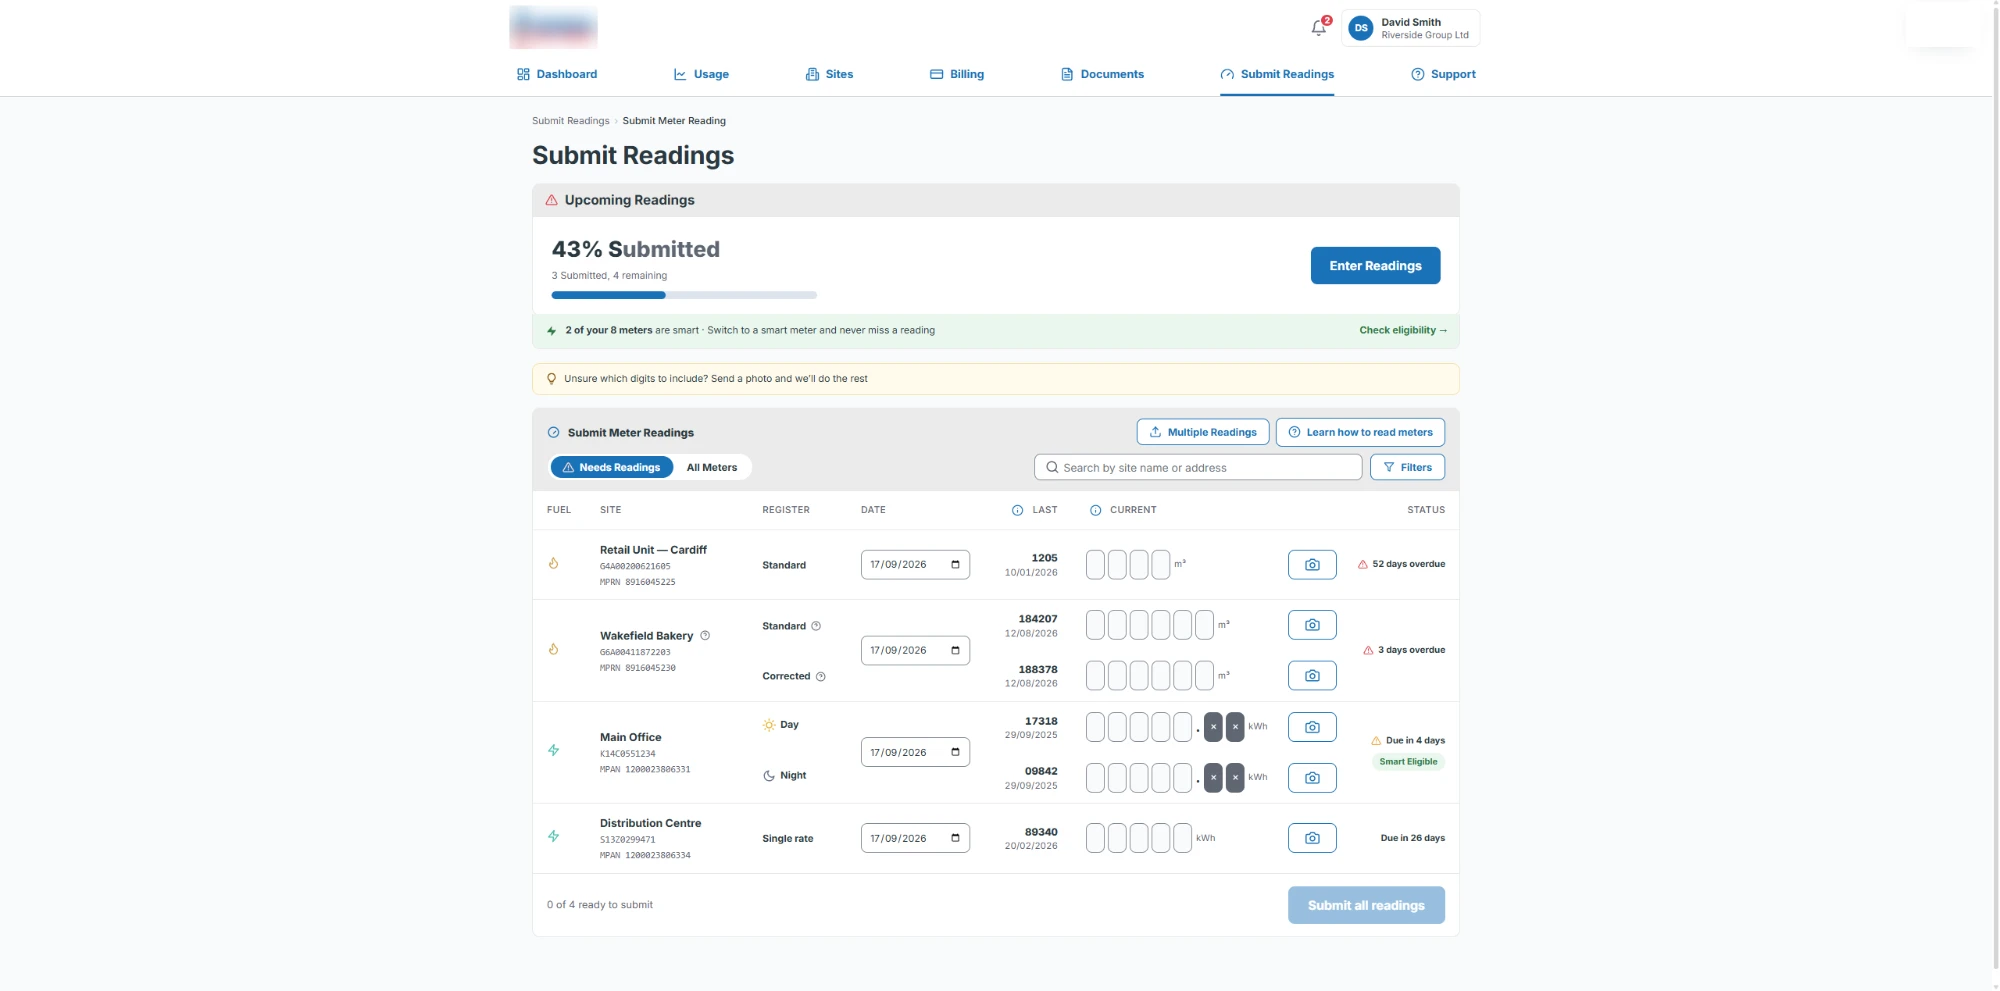
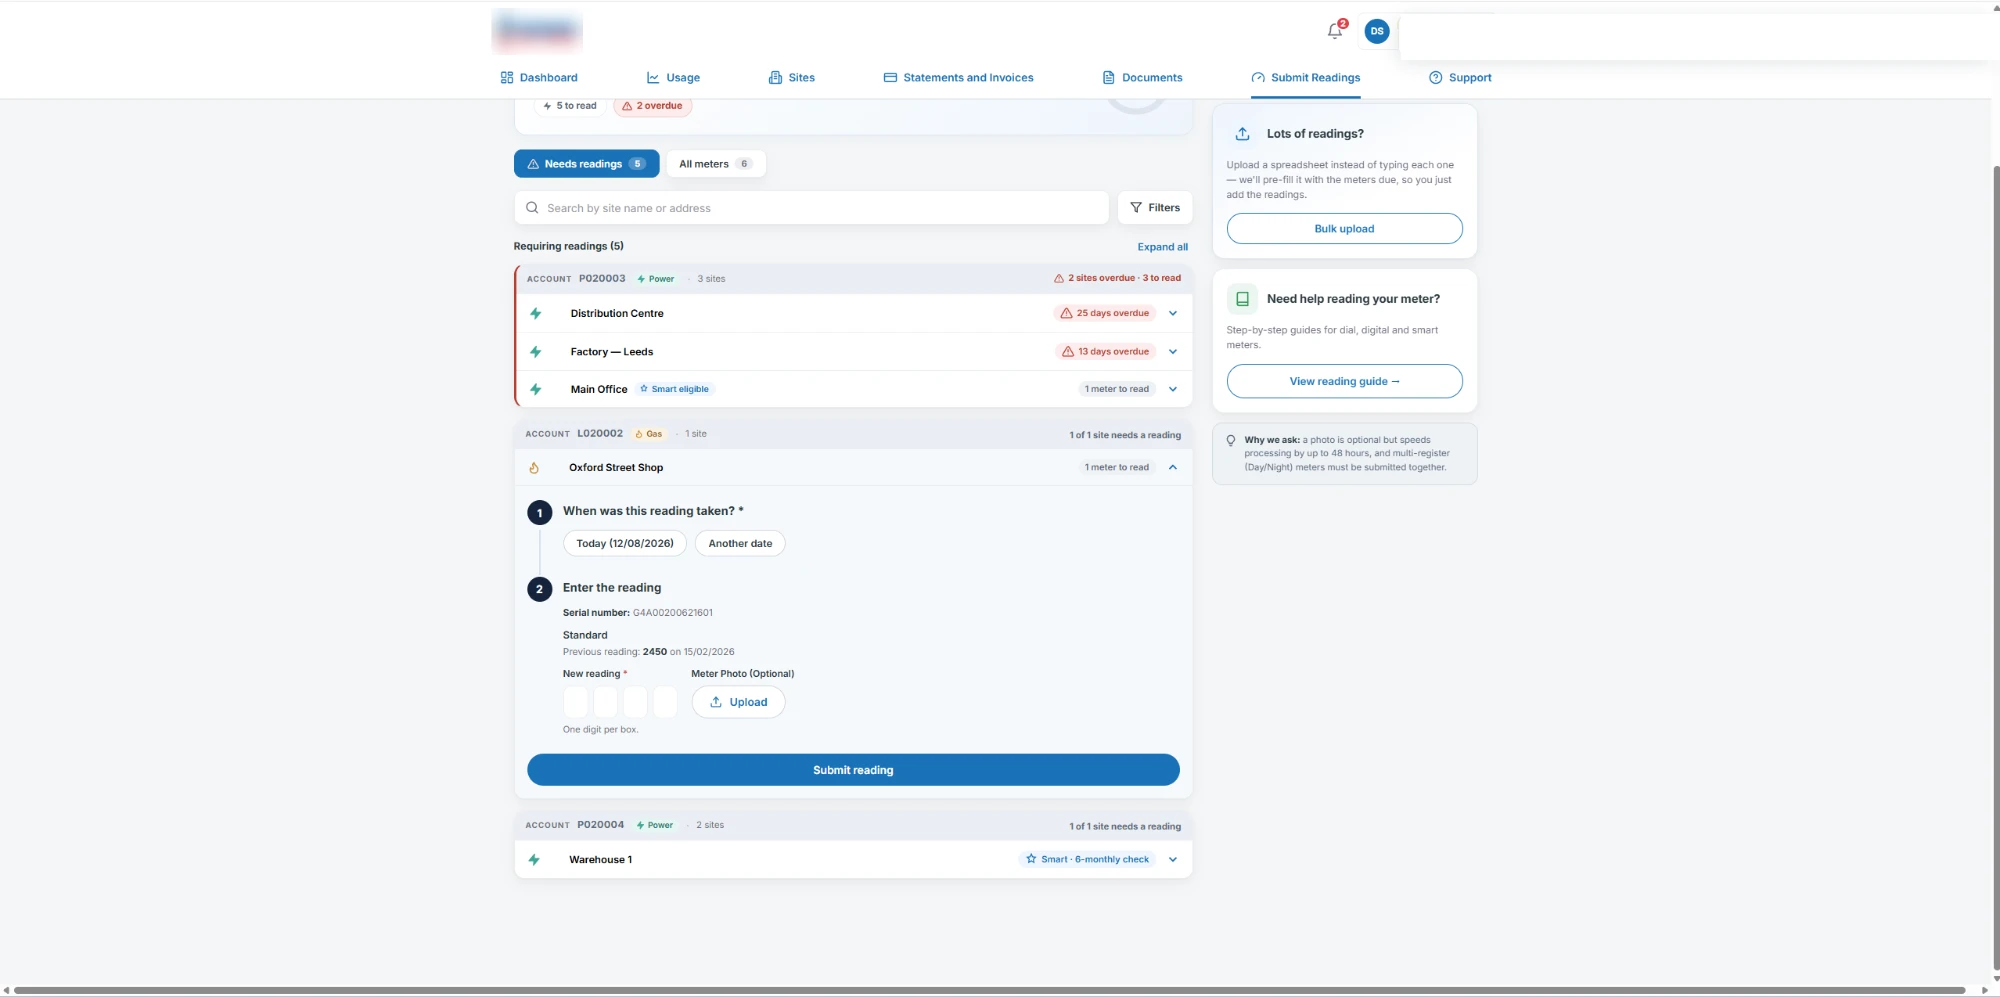
Add Documents shot, a 2nd meter readings V1, replace final with the PMS version
- Documents: added the desktop shot alongside the existing mobile
  consolidated-billing one (needed the cols-2 class to actually sit
  side by side — a plain shot-row has no flex-basis, so the one image
  was filling the whole row and pushing the other onto its own line)
- Meter readings: added a second V1 screenshot; replaced "Final" with
  the actual PMS version (grouped by account, with bulk upload and
  reading-help panels), consistent with how "PMS version" has meant
  the authoritative final for Usage and Sites. Dropped the old mobile
  "Final" shot since it matched the superseded flat-table design, not
  the new grouped one — showing it next to the new final would have
  implied a desktop/mobile pair that doesn't actually exist
- Sites: added a mobile companion to the final grouped-by-account shot

One supplied image (first iteration of the billings page) was a
byte-identical duplicate of the invoices-v1-expanded shot already
placed, so it was skipped rather than added twice.

Claude-Session: https://claude.ai/code/session_01U32wVdRPaRNogzfLo77iVG

diff --git a/projects/business-portal.html b/projects/business-portal.html
@@ -167,8 +167,8 @@
       <h3>Meter readings</h3>
       <div class="shot-row cols-3">
         <figure class="shot"><img src="../assets/business-portal/meter-readings-v1.webp" alt="V1 meter readings prototype, a step-by-step submit-readings flow with an upcoming-readings progress bar" width="2000" height="996" loading="eager" /><figcaption>V1 — first iteration.</figcaption></figure>
-        <figure class="shot"><img src="../assets/business-portal/meter-readings-final.webp" alt="Final meter readings page, a full table of meters with last and current reading fields and overdue status" width="2000" height="991" loading="eager" /><figcaption>Final — a full table, which testers understood instantly.</figcaption></figure>
-        <figure class="shot mobile"><img src="../assets/business-portal/meter-readings-final-mobile.png" alt="Final meter readings page on mobile, showing the same overdue meter cards stacked" width="495" height="902" loading="eager" /><figcaption>Final — mobile.</figcaption></figure>
+        <figure class="shot"><img src="../assets/business-portal/meter-readings-v1-b.webp" alt="V1 meter readings prototype, a different site expanded in the same step-by-step flow" width="2000" height="991" loading="eager" /><figcaption>V1 — first iteration.</figcaption></figure>
+        <figure class="shot"><img src="../assets/business-portal/meter-readings-final.webp" alt="Final meter readings page grouped by account, with bulk upload and meter-reading help panels" width="2000" height="997" loading="eager" /><figcaption>Final — grouped by account, with bulk upload and reading help built in.</figcaption></figure>
       </div>
       <p>The first version was also a drop-down table, and it confused users in the same way. I had to cover long meters, day and night registers, and corrected meters. I avoided a full table at first because I thought it would look cluttered. But our customers understood meter readings far better than I did, and they entered readings quickly in a full table. So I went with that.</p>
       <p><strong>Result:</strong> at first only 15% of testers could submit readings. After iterating, 100% could.</p>
@@ -185,13 +185,15 @@
       <div class="shot-row cols-3">
         <figure class="shot"><div class="media-placeholder">V1</div><figcaption>V1</figcaption></figure>
         <figure class="shot"><img src="../assets/business-portal/sites-final-groupby.png" alt="Final sites page grouped by account, with site ref, MPRN and status columns and an All Sites / By Account toggle" width="1920" height="988" loading="eager" /><figcaption>Final — grouped by account, with status at a glance.</figcaption></figure>
+        <figure class="shot mobile"><img src="../assets/business-portal/sites-final-mobile.png" alt="Final sites page on mobile, a list of site cards with live/ceased status and contract-ends badges" width="464" height="822" loading="eager" /><figcaption>Final — mobile.</figcaption></figure>
         <figure class="shot"><div class="media-placeholder">Individual site</div><figcaption>An individual site page.</figcaption></figure>
       </div>
       <p>Sites had to work grouped by account or individually, and stakeholders wanted everything visible. A table wasn't an option after the earlier testing, so I used cards. Some feedback suggested users identify sites by account, so I added a group-by option.</p>
       <p>Individual site pages have a sticky header so users always know where they are. Customers can also now do things that used to mean a phone call: report a change of tenancy, add site contacts, add property and site references, add site-level data to improve usage predictions, and view past meter readings. I expect these, together with clearer meter reading and invoice flows, to take pressure off the team.</p>
 
       <h3>Documents, Support, Consolidated Billing, Settings</h3>
-      <div class="shot-row" style="margin-top:1.5rem;">
+      <div class="shot-row cols-2" style="margin-top:1.5rem;">
+        <figure class="shot"><img src="../assets/business-portal/documents-desktop.png" alt="Documents page with a category and site filter sidebar and a searchable, filterable document list grouped by date" width="1920" height="850" loading="eager" /><figcaption>Documents — searchable and filterable, grouped by time period.</figcaption></figure>
         <figure class="shot mobile"><img src="../assets/business-portal/consolidated-billing-mobile.png" alt="Consolidated billing on mobile, a list of statements by month with date range, amount and a download icon" width="447" height="800" loading="eager" /><figcaption>Consolidated billing — mobile.</figcaption></figure>
       </div>
       <p>These were more straightforward: grouping information logically and applying the design system so they matched the rest. Documents moved from a card-based page to a searchable, filterable list with counts, grouped by time period, so customers with many sites can find a specific letter quickly.</p>
